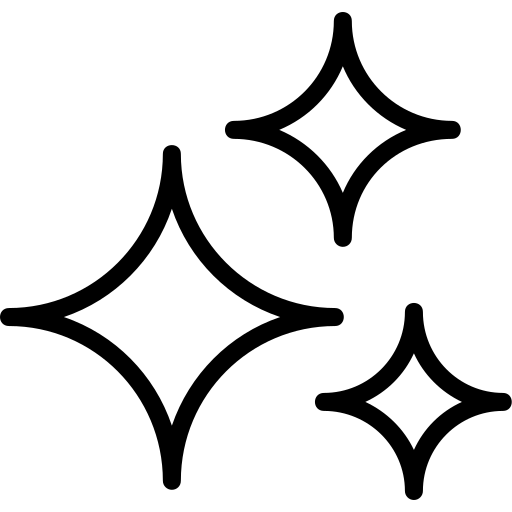
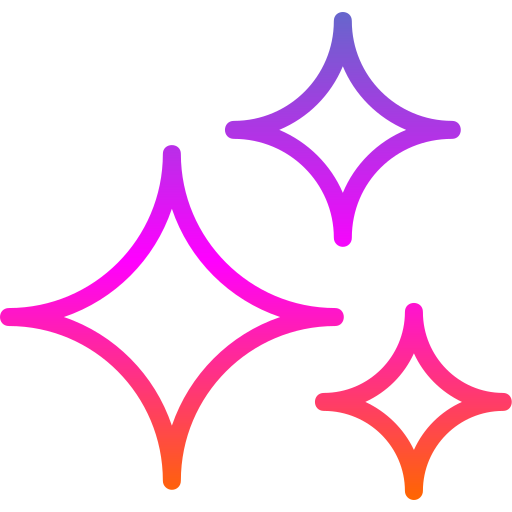
working on project section in about me page

Changed region(s): [[0.0, 0.2812, 0.6875, 0.9688], [0.4375, 0.0, 0.9062, 0.5], [0.5938, 0.5938, 1.0, 1.0]]

diff --git a/style.css b/style.css
@@ -50,9 +50,10 @@
 }
 
 .bg-color::before {
+  margin-top: 2rem;
   content: "";
   position: absolute;
-  top: -50px;
+  top: -30px;
   left: -50px;
   right: -50px;
   bottom: -50px;
@@ -444,6 +445,7 @@ nav ul li a:active {
 }
 
 #left-side p:first-child {
+  margin-bottom: 2rem;
   font-size: 1rem;
   width: fit-content;
   border: 1px solid #a855f7;
@@ -451,10 +453,14 @@ nav ul li a:active {
   color: #a855f7;
   padding: 10px 15px;
   border-radius: 20px;
+  background-color: rgba(168, 85, 247, 0.3);
+
+  box-shadow: 0 0 56px 4px rgba(255, 192, 203, 0.603);
 }
 #left-side p:first-child:hover {
-  background-color: rgba(168, 85, 247, 0.1);
+  box-shadow: 0 0 65px 8px rgba(255, 192, 203, 0.514);
 }
+
 /* add hue rate here and fix this image like a prortfolio */
 #left-side p img {
   height: 1rem;
@@ -1177,7 +1183,7 @@ nav ul li a:active {
 }
 
 .about-cont {
-  margin-top: 10rem;
+  margin-top: 5rem;
   height: 100vh;
   font-size: 3rem;
   font-weight: 600;
@@ -1190,7 +1196,8 @@ nav ul li a:active {
 
 .about-cont h1 {
   font-size: 3rem;
-  background: linear-gradient(-4deg, #6366f1, #a855f7); /* blue to purple */
+  background: linear-gradient(to top, #6366f1, #a855f7);
+
   -webkit-background-clip: text;
   -webkit-text-fill-color: transparent;
 }
@@ -1208,11 +1215,11 @@ nav ul li a:active {
 }
 
 .paragraph {
-  font-weight: 500;
+  font-weight: 100;
   color: gray !important;
-  margin-top: 2rem;
+  margin-top: 1rem;
   font-size: 1.5rem;
-  max-width: 80.7%;
+  max-width: 58%;
 }
 
 .details {
@@ -1243,7 +1250,7 @@ nav ul li a:active {
 }
 .icon {
   margin-right: 0.5rem;
-  font-size: 1.2rem;
+  /* font-size: 1.2rem; */
 }
 .btn {
   display: inline-flex;
@@ -1302,6 +1309,9 @@ nav ul li a:active {
     opacity: 1;
     transform: translateY(0) scale(1);
   }
+}
+.page-2 {
+  height: 50%;
 }
 
 .main-container {
@@ -1439,6 +1449,93 @@ nav ul li a:active {
     transform: rotate(25deg) translateX(100%);
     opacity: 0;
   }
+}
+
+/* project - marksheet */
+.projects-marksheet {
+  margin-top: 5rem;
+  display: flex;
+  align-items: center;
+  justify-self: center;
+  position: absolute;
+  width: 100%;
+  height: 20%;
+  border: 1px solid pink;
+  gap: 10rem;
+}
+
+/* From Uiverse.io by nima-mollazadeh */
+.one-section {
+  height: 100%;
+  width: calc(80% / 3);
+  position: relative;
+  text-decoration: none;
+  color: #fff;
+  background: linear-gradient(45deg, #0ce39a, #69007f, #fc0987);
+  padding: 14px 25px;
+  border-radius: 10px;
+  font-size: 1.25em;
+  cursor: pointer;
+}
+
+.one-section span {
+  position: relative;
+  z-index: 1;
+}
+
+.one-section .animated {
+  /* position: absolute;
+  padding: 8%; */
+  align-items: center;
+  border: 1px solid pink;
+}
+.move {
+  position: absolute;
+  /* top: 50%; */
+  right: -10%;
+  height: 1%;
+  border: 1px solid pink;
+  align-items: center;
+  justify-content: center;
+}
+
+.one-section::before {
+  content: "";
+  position: absolute;
+  inset: 1px;
+  background: #272727;
+  border-radius: 9px;
+  transition: 0.5s;
+}
+
+.one-section:hover::before {
+  opacity: 0.7;
+}
+
+.one-section::after {
+  content: "";
+  position: absolute;
+  inset: 0px;
+  background: linear-gradient(45deg, #0ce39a, #69007f, #fc0987);
+  border-radius: 9px;
+  transition: 0.5s;
+  opacity: 0;
+  filter: blur(20px);
+}
+
+.one-section:hover:after {
+  opacity: 1;
+}
+
+.two-section {
+  height: 100%;
+  width: calc(80% / 3);
+  border: 1px solid #00d9ff;
+}
+.three-section {
+  height: 100%;
+  width: calc(80% / 3);
+  border: 1px solid #00d9ff;
 }
 
 .back-to-top {

diff --git a/index.html b/index.html
@@ -312,8 +312,28 @@
 
       <main class="page-1">
         <section id="left-side">
-          <p>
-            <img src="star.png" alt="star images" />
+          <p class="color">
+            <svg
+              xmlns="http://www.w3.org/2000/svg"
+              width="15"
+              height="18"
+              viewBox="0 0 24 24"
+              fill="none"
+              stroke="currentColor"
+              stroke-width="2"
+              stroke-linecap="round"
+              stroke-linejoin="round"
+              class="lucide lucide-sparkles sm:w-4 sm:h-4 w-3 h-3 mr-2 text-blue-400"
+            >
+              <path
+                d="M9.937 15.5A2 2 0 0 0 8.5 14.063l-6.135-1.582a.5.5 0 0 1 0-.962L8.5 9.936A2 2 0 0 0 9.937 8.5l1.582-6.135a.5.5 0 0 1 .963 0L14.063 8.5A2 2 0 0 0 15.5 9.937l6.135 1.581a.5.5 0 0 1 0 .964L15.5 14.063a2 2 0 0 0-1.437 1.437l-1.582 6.135a.5.5 0 0 1-.963 0z"
+              ></path>
+              <path d="M20 3v4"></path>
+              <path d="M22 5h-4"></path>
+              <path d="M4 17v2"></path>
+              <path d="M5 18H3"></path>
+            </svg>
+
             Ready to Innovate
           </p>
           <div class="shooting-star"></div>
@@ -646,15 +666,10 @@
 
             <div>
               <p class="paragraph">
-                I am a BCA student and a <b>passionate frontend developer</b>. I
-                build <b>responsive and user-friendly</b> websites using modern
-                technologies like <b>JavaScript and React</b>. I’m always eager
-                to learn new tools and love bringing creativity into design. I
-                strive to
-                <b
-                  >create something new that is both useful and visually
-                  appealing for users.</b
-                >
+                I'm a BCA student and frontend developer who builds responsive,
+                creative websites using JavaScript and React, always eager to
+                learn and design experiences that are both user-friendly and
+                visually engaging.
               </p>
             </div>
 
@@ -670,6 +685,17 @@
                 <a href="#" class="btns outline-btn">
                   <i class="icon">💻</i> View Projects
                 </a>
+              </div>
+              <div class="projects-marksheet">
+                <button class="one-section">
+                  <a href="http://GitHub.com"
+                    ><span>Projects <span class="move"></span></span>
+                    <span class="animated"></span>
+                  </a>
+                </button>
+
+                <div class="two-section sizing"></div>
+                <div class="three-section sizing"></div>
               </div>
             </div>
           </section>
@@ -691,6 +717,7 @@
           </section>
         </div>
       </div>
+
       <!-- </div> -->
     </div>
     <img src="Coding.gif" alt="My animation" height="400px" width="400px" />
